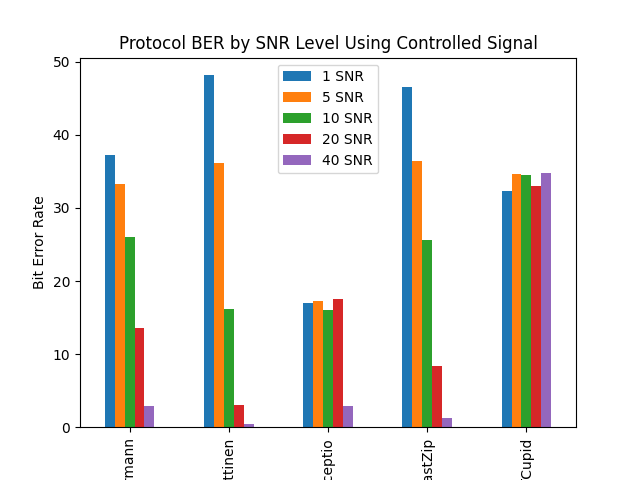
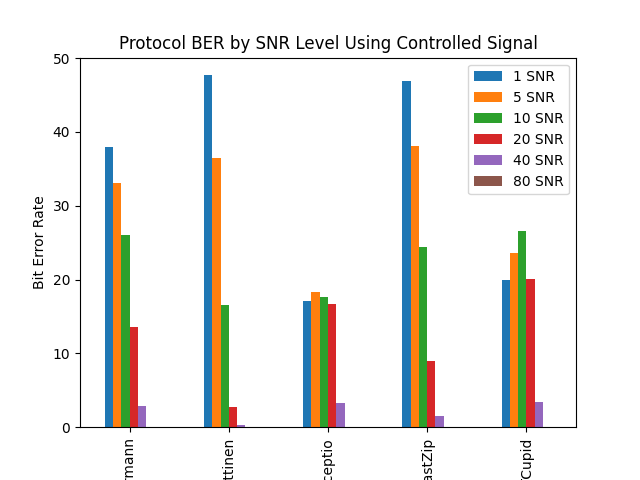
checkpoint

diff --git a/eval/plot_scripts/controlled_snr_plots.py b/eval/plot_scripts/controlled_snr_plots.py
@@ -11,15 +11,15 @@ sys.path.insert(1, os.getcwd() + "/../miettinen")  # Gives us path to other scri
 sys.path.insert(1, os.getcwd() + "/../perceptio")  # Gives us path to other scripts
 sys.path.insert(1, os.getcwd() + "/../iotcupid")  # Gives us path to other scripts
 sys.path.insert(1, os.getcwd() + "/../fastzip")  # Gives us path to other scripts
-from schurmann import goldsig_plus_noise_eval_schurmann, controlled_signal_plus_noise_schurmann
-from miettinen import goldsig_plus_noise_eval_miettinen, controlled_signal_plus_noise_miettinen
-from perceptio import goldsig_plus_noise_eval_perceptio, controlled_signal_plus_noise_perceptio
-from fastzip import goldsig_plus_noise_eval_fastzip, controlled_signal_plus_noise_fastzip
-from iotcupid import goldsig_plus_noise_eval_iotcupid, controlled_signal_plus_noise_iotcupid
+from schurmann import goldsig_plus_noise_eval_schurmann, controlled_signal_plus_noise_schurmann # noqa: E402
+from miettinen import goldsig_plus_noise_eval_miettinen, controlled_signal_plus_noise_miettinen # noqa: E402
+from perceptio import goldsig_plus_noise_eval_perceptio, controlled_signal_plus_noise_perceptio # noqa: E402
+from fastzip import goldsig_plus_noise_eval_fastzip, controlled_signal_plus_noise_fastzip # noqa: E402
+from iotcupid import goldsig_plus_noise_eval_iotcupid, controlled_signal_plus_noise_iotcupid # noqa: E402
 
 def get_command_line_args():
     p = argparse.ArgumentParser()
-    p.add_argument("-snr_levels", nargs="+", type=float, default=[1,5,10,20,40])
+    p.add_argument("-snr_levels", nargs="+", type=float, default=[1,5,10,20,40,80])
     args = p.parse_args()
 
     return args.snr_levels

diff --git a/eval/plot_scripts/elbow_method_clustering_plots.py b/eval/plot_scripts/elbow_method_clustering_plots.py
@@ -1,0 +1,28 @@
+import sys
+import os
+from sklearn.datasets import make_blobs
+
+sys.path.insert(1, os.getcwd() + "/../../src")
+
+from signal_processing.iotcupid import IoTCupidProcessing  # noqa: E402
+from signal_processing.perceptio import PerceptioProcessing # noqa: E402
+
+CLUSTER_TH = 0.1
+
+def perceptio_wrapper(X, clusters):
+    labels, k, inertias = PerceptioProcessing.kmeans_w_elbow_method(X, clusters, CLUSTER_TH)
+    return inertias
+
+def iotcupid_wrapper(X, clusters):
+    cntr, u, c, scores = IoTCupidProcessing.fuzzy_cmeans_w_elbow_method(
+        X.T, clusters, 0.05, 1.5, 3, 100, 0.5
+    )
+    return scores
+
+def clustering_data(wrapper, ):
+    X, _ = make_blobs(n_samples=300, centers=cluster, cluster_std=0.05, random_state=0)
+    labels, k, inertias = PerceptioProcessing.kmeans_w_elbow_method(X, )
+    return inertias
+
+def main():
+    

diff --git a/src/signal_processing/iotcupid.py b/src/signal_processing/iotcupid.py
@@ -295,6 +295,8 @@ class IoTCupidProcessing:
         rel_val = x1
         c = 1
 
+        scores = [best_score]
+
         prev_score = best_score
         prev_fpc = best_fpc
         prev_u = best_u
@@ -304,6 +306,7 @@ class IoTCupidProcessing:
             score, fpc, u, cntr = IoTCupidProcessing.grid_search_cmeans(
                 features, i, m_start, m_end, m_searches, mem_thresh
             )
+            scores.append(score)
             x2 = score
             perc = (x1 - x2) / rel_val
             x1 = x2
@@ -328,7 +331,7 @@ class IoTCupidProcessing:
             prev_cntr = cntr
             prev_score = score
 
-        return best_cntr, best_u, c, best_score
+        return best_cntr, best_u, c, scores
 
     def group_events(
         events: List[Tuple[int, int]], u: np.ndarray, mem_thresh

diff --git a/eval/iotcupid/controlled_signal_plus_noise_iotcupid.py b/eval/iotcupid/controlled_signal_plus_noise_iotcupid.py
@@ -13,8 +13,8 @@ from eval_tools import (  # noqa: E402
 )
 from evaluator import Evaluator  # noqa: E402
 
-TOP_TH_DEFAULT = 1
-BOTTOM_TH_DEFAULT = 0.4
+TOP_TH_DEFAULT = 1500
+BOTTOM_TH_DEFAULT = 750
 LUMP_TH_DEFAULT = 4
 A_DEFAULT = 0.75
 CLUSTER_SIZE_TO_CHECK_DEFAULT = 4

diff --git a/src/signal_processing/perceptio.py b/src/signal_processing/perceptio.py
@@ -182,7 +182,7 @@ class PerceptioProcessing:
                 k = i
                 break
 
-        return labels, k
+        return labels, k, inertias
 
     def group_events(
         events: List[Tuple[int, int]], labels: np.ndarray, k: int
